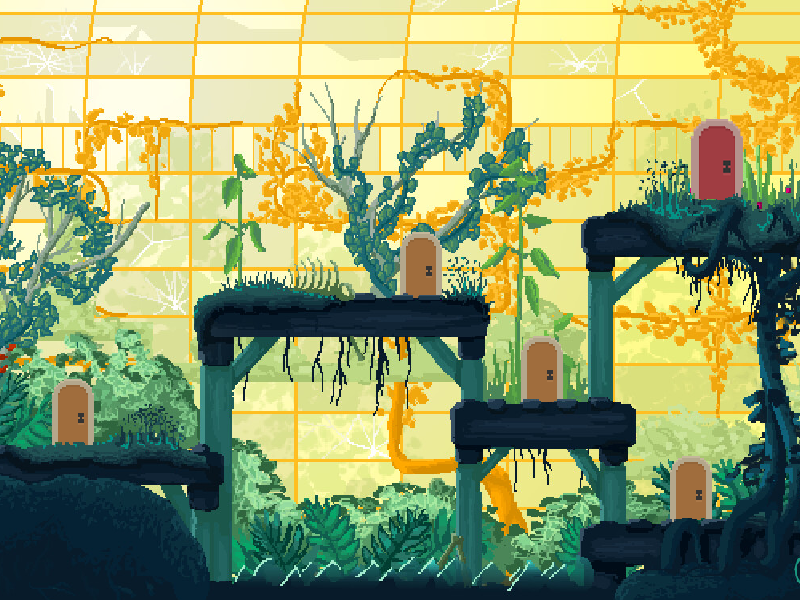
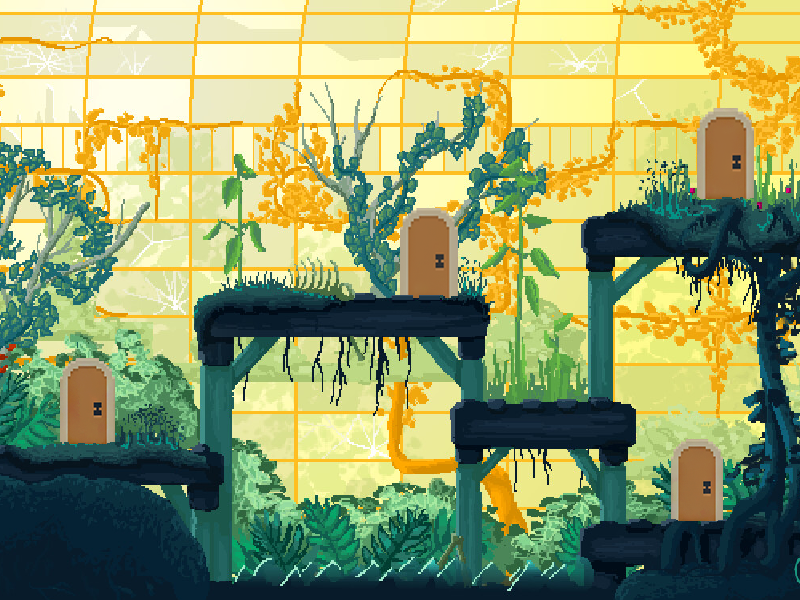
fixed doors and hovers and fixed mg

diff --git a/script.js b/script.js
@@ -97,7 +97,7 @@ function setup() {
     enemy3 = new Enemy(2370, 415);
     enemy4 = new Enemy(3710, 80);
     
-    gamestate=2;
+    gamestate=4;
     points = 0;
     p = new Player(60,402);
     setInterval(timer, 1000);
@@ -142,7 +142,7 @@ function setup() {
 }
 
 function draw() { 
-console.log(p.fake_x, p.y);
+//console.log(p.fake_x, p.y);
 // switch statement with game state - each corresponds to a different "screen"
   switch(gamestate){
       case 0:
@@ -197,7 +197,7 @@ function keyPressed(){
     
 }
 function mousePressed(){
-    //console.log(mouseX,mouseY);
+    console.log(mouseX,mouseY);
 }
 
 //debug screen
@@ -231,6 +231,7 @@ function startScreen(){
 }
 
 function hubScreen(){
+    textSize(20);
     hitmap = hub_hm;
     image(hitmap,0,0);
     image(hub_bg,0,0);
@@ -540,17 +541,14 @@ class Player{
                 front_leaves_x = -1156;
                 this.x += 4;
                 scrolling = false;
-                //console.log(sand_x,fg_x);
                 sand_x = -1156;
                 fg_x = -2312;
             }
         }
-        if (keyIsDown(32) && this.isPixelSolid(this.middleX, this.down)) {
-          this.ySpeed = -10;
+        if (keyIsDown(32) && this.isPixelSolid(this.middleX, this.down)){
+            this.ySpeed = -10;
         }
-        // if (this.death_detection(this.fake_x, this.middleY)) {
-        //     gamestate = ;
-        // }
+        
 
     }
     handleFallJumpMovement() {
@@ -607,57 +605,49 @@ class Player{
     handleDoorMovement(){
         if(gamestate == 1){
         //check if a door was entered
-        if(this.isDoor(this.middleX, this.up) && (keyIsDown(38) || keyIsDown(87)) && !this.locked && this.middleX > 52 && this.middleX < 94){
+        if(this.isDoor(this.middleX, this.up) && (keyIsDown(38) || keyIsDown(87)) && !this.locked && this.middleX < 140 && this.middleX > 60){
             console.log('entered selection door');
-            //gamestate = 0;
+            gamestate = 0;
         }
-        if(mouseX > 52 && mouseX < 94 && mouseY > 376 && mouseY < 443){
+        if(mouseX > 60 && mouseX < 114 && mouseY > 359 && mouseY < 443){
             fill(0,150);
-            rect(35,350,80,20);
+            rect(48,330,80,20);
             fill(255);
-            text('main menu',45,365);
+            text('main menu',58,345);
         }
-        if(this.isDoor(this.middleX, this.up) && (keyIsDown(38) || keyIsDown(87)) && !this.locked && this.middleX > 401 && this.middleX < 442){
+        if(this.isDoor(this.middleX, this.up) && (keyIsDown(38) || keyIsDown(87)) && !this.locked && this.middleX < 455 && this.middleX > 370){
             console.log('entered lvl1 door');
             gamestate = 2;
             p.x = 75;
             p.y = 400;
         }
-        if(mouseX > 401 && mouseX < 442 && mouseY > 232 && mouseY < 297){
+        if(mouseX > 401 && mouseX < 455 && mouseY > 208 && mouseY < 295){
             fill(0,150);
-            rect(390,200,60,20);
+            rect(400,180,60,20);
             fill(255);
-            text('level 1',405,215);
+            text('level 1',415,195);
         }
-        if(this.isDoor(this.middleX, this.up) && (keyIsDown(38) || keyIsDown(87)) && !this.locked && this.middleX > 522 && this.middleX < 563){
+        if(this.isDoor(this.middleX, this.up) && (keyIsDown(38) || keyIsDown(87)) && !this.locked && this.middleX > 717 && this.middleX < 784 && this.middleY < 300){
             console.log('entered lvl2 door');
-            //gamestate = 3;
+            gamestate = 3;
+            p.x = 75;
+            p.y = 400;
         }
-        if(mouseX > 522 && mouseX < 563 && mouseY > 334 && mouseY < 432){
+        if(mouseX > 697 && mouseX < 755 && mouseY > 108 && mouseY < 199){
             fill(0,150);
-            rect(515,310,60,20);
+            rect(698,80,60,20);
             fill(255);
-            text('level 2',527,325);
+            text('level 2',710,95);
         }
-        if(this.isDoor(this.middleX, this.up) && (keyIsDown(38) || keyIsDown(87)) && !this.locked && this.middleX > 670 && this.middleX < 712 && this.middleY > 300){
+        if(this.isDoor(this.middleX, this.up) && (keyIsDown(38) || keyIsDown(87)) && !this.locked && this.middleX > 697 && this.middleX < 785 && this.middleY > 300){
             console.log('entered minigame door');
             gamestate = 4;
         }
-        if(mouseX > 670 && mouseX < 712 && mouseY > 456 && mouseY < 523){
+        if(mouseX > 670 && mouseX < 724 && mouseY > 439 && mouseY < 521){
             fill(0,150);
-            rect(660,430,70,20);
+            rect(660,410,70,20);
             fill(255);
-            text('minigame',670,443);
-        }
-        if(this.isDoor(this.middleX, this.up) && (keyIsDown(38) || keyIsDown(87)) && !this.locked && this.middleX > 692 && this.middleX < 744 && this.middleY < 300){
-            console.log('entered boss door');
-            //gamestate = 5;
-        } 
-        if(mouseX > 692 && mouseX < 744 && mouseY > 120 && mouseY < 203){
-            fill(0,150);
-            rect(690,90,50,20);
-            fill(255);
-            text('boss',701,105);
+            text('minigame',670,423);
         }
         else if(this.isDoor(this.middleX, this.up) && (keyIsDown(38) || keyIsDown(87)) && this.locked){
             noStroke();
@@ -671,7 +661,6 @@ class Player{
     isPixelSolid(x,y){
             let temp = red(hitmap.get(x,y));
             if (temp == 0) {
-            //console.log(temp);
             return true;
             }
             return false;
@@ -756,7 +745,7 @@ class Sprite {
         if(frameCount%10==0){
             
             this.index = this.index + this.speed;
-            console.log(action);
+            //console.log(action);
             if(gamestate == 0){
                 if(this.animation == aniR){
                     if(this.index > 6 || this.index < 3){
